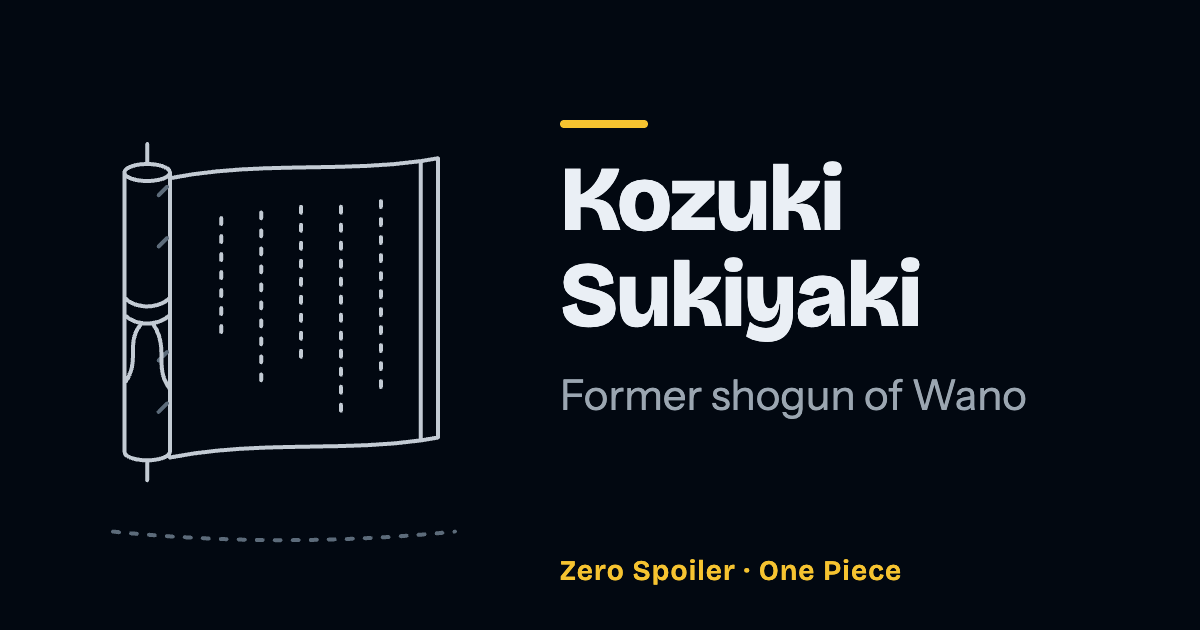
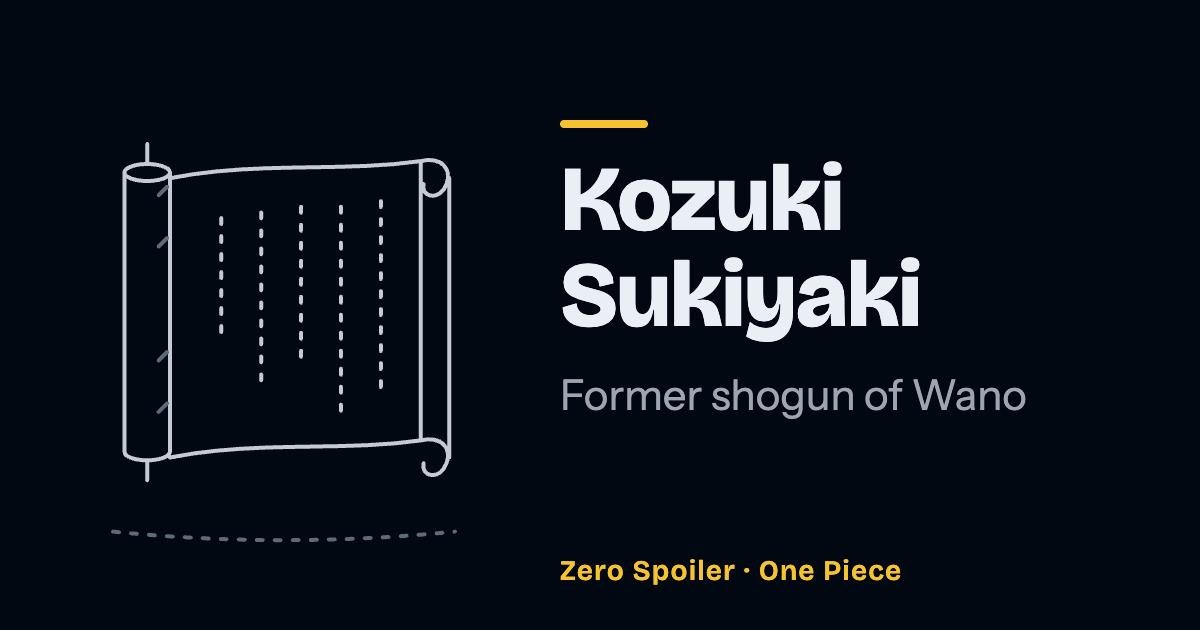
fix(art): put Sukiyaki's accent on the curled sheet, true pair in Babanuki's comment
Claude-Session: https://claude.ai/code/session_018XDoqAtT67ZkYEKqrsdP9h

Changed region(s): [[0.3392, 0.2413, 0.4008, 0.754], [0.0925, 0.4825, 0.1542, 0.6032]]

diff --git a/src/data/series/one-piece/art/wano.ts b/src/data/series/one-piece/art/wano.ts
@@ -1462,8 +1462,9 @@ export const wanoArt = {
   // inside of the far side hatched, the large round buckle at the front, and
   // the trunk of the elephant on his chest hanging down over the buckle in
   // his colour, its wrinkles across it, with no head and no eye. Belt,
-  // buckle and elephant are his from his first scene (930, ch. 934); how far
-  // the trunk reaches is not checked against a frame.
+  // buckle and elephant are his from his first scene (929, ch. 934 p. 13;
+  // his record opens later, at 930/935); how far the trunk reaches is not
+  // checked against a frame.
   'babanuki': [
     {
       d: 'M18 118 C18 108.7 40.4 103.3 66.2 101.9 M89.7 101.7 C117.2 102.7 142 108.2 142 118',
@@ -1747,9 +1748,9 @@ export const wanoArt = {
 
   // The note that disowns his son, an open scroll seen a little from the
   // side: the rolled end standing as a roll with its far side hatched, the
-  // sheet curving away to its thin stave, columns of writing too faint to
-  // read, and the cord round the roll in his colour, its ends hanging. He
-  // sends it at 960 (ch. 960); the wiki gives the note no seal or brush.
+  // sheet curving away, columns of writing too faint to read, and the
+  // sheet's leading edge curling back on itself in his colour. He sends it
+  // at 960 (ch. 960); the wiki gives the note no seal, brush or cord.
   'kozuki-sukiyaki': [
     { d: `${ellipse(32, 50, 8, 3)} M24 50 V148 A8 3 0 0 0 40 148 V50` },
     { d: 'M32 47 V40 M32 151 V158', role: 'soft' },
@@ -1758,15 +1759,14 @@ export const wanoArt = {
       role: 'ambient',
     },
     { d: 'M40 52 C70 46 100 50 128 46 V144 C100 148 70 144 40 150' },
-    { d: 'M128 46 L134 45 V143 L128 144', role: 'soft' },
+    {
+      d: 'M128 46 C136 44 140 50 136 56 C133 60 128 58 129 54 M128 144 C136 142 140 148 136 154 C133 158 128 156 129 152 M138 52 V150',
+      role: 'accent',
+    },
     {
       d: 'M114 60 V128 M100 62 V134 M86 62 V118 M72 64 V126 M58 66 V110',
       role: 'soft',
       dashed: true,
-    },
-    {
-      d: 'M24 94 C28 98 36 98 40 94 M24 100 C28 104 36 104 40 100 M30 103 C24 110 30 116 24 124 M34 103 C40 112 34 118 40 126',
-      role: 'accent',
     },
     shadow(80, 176, 60),
   ],
